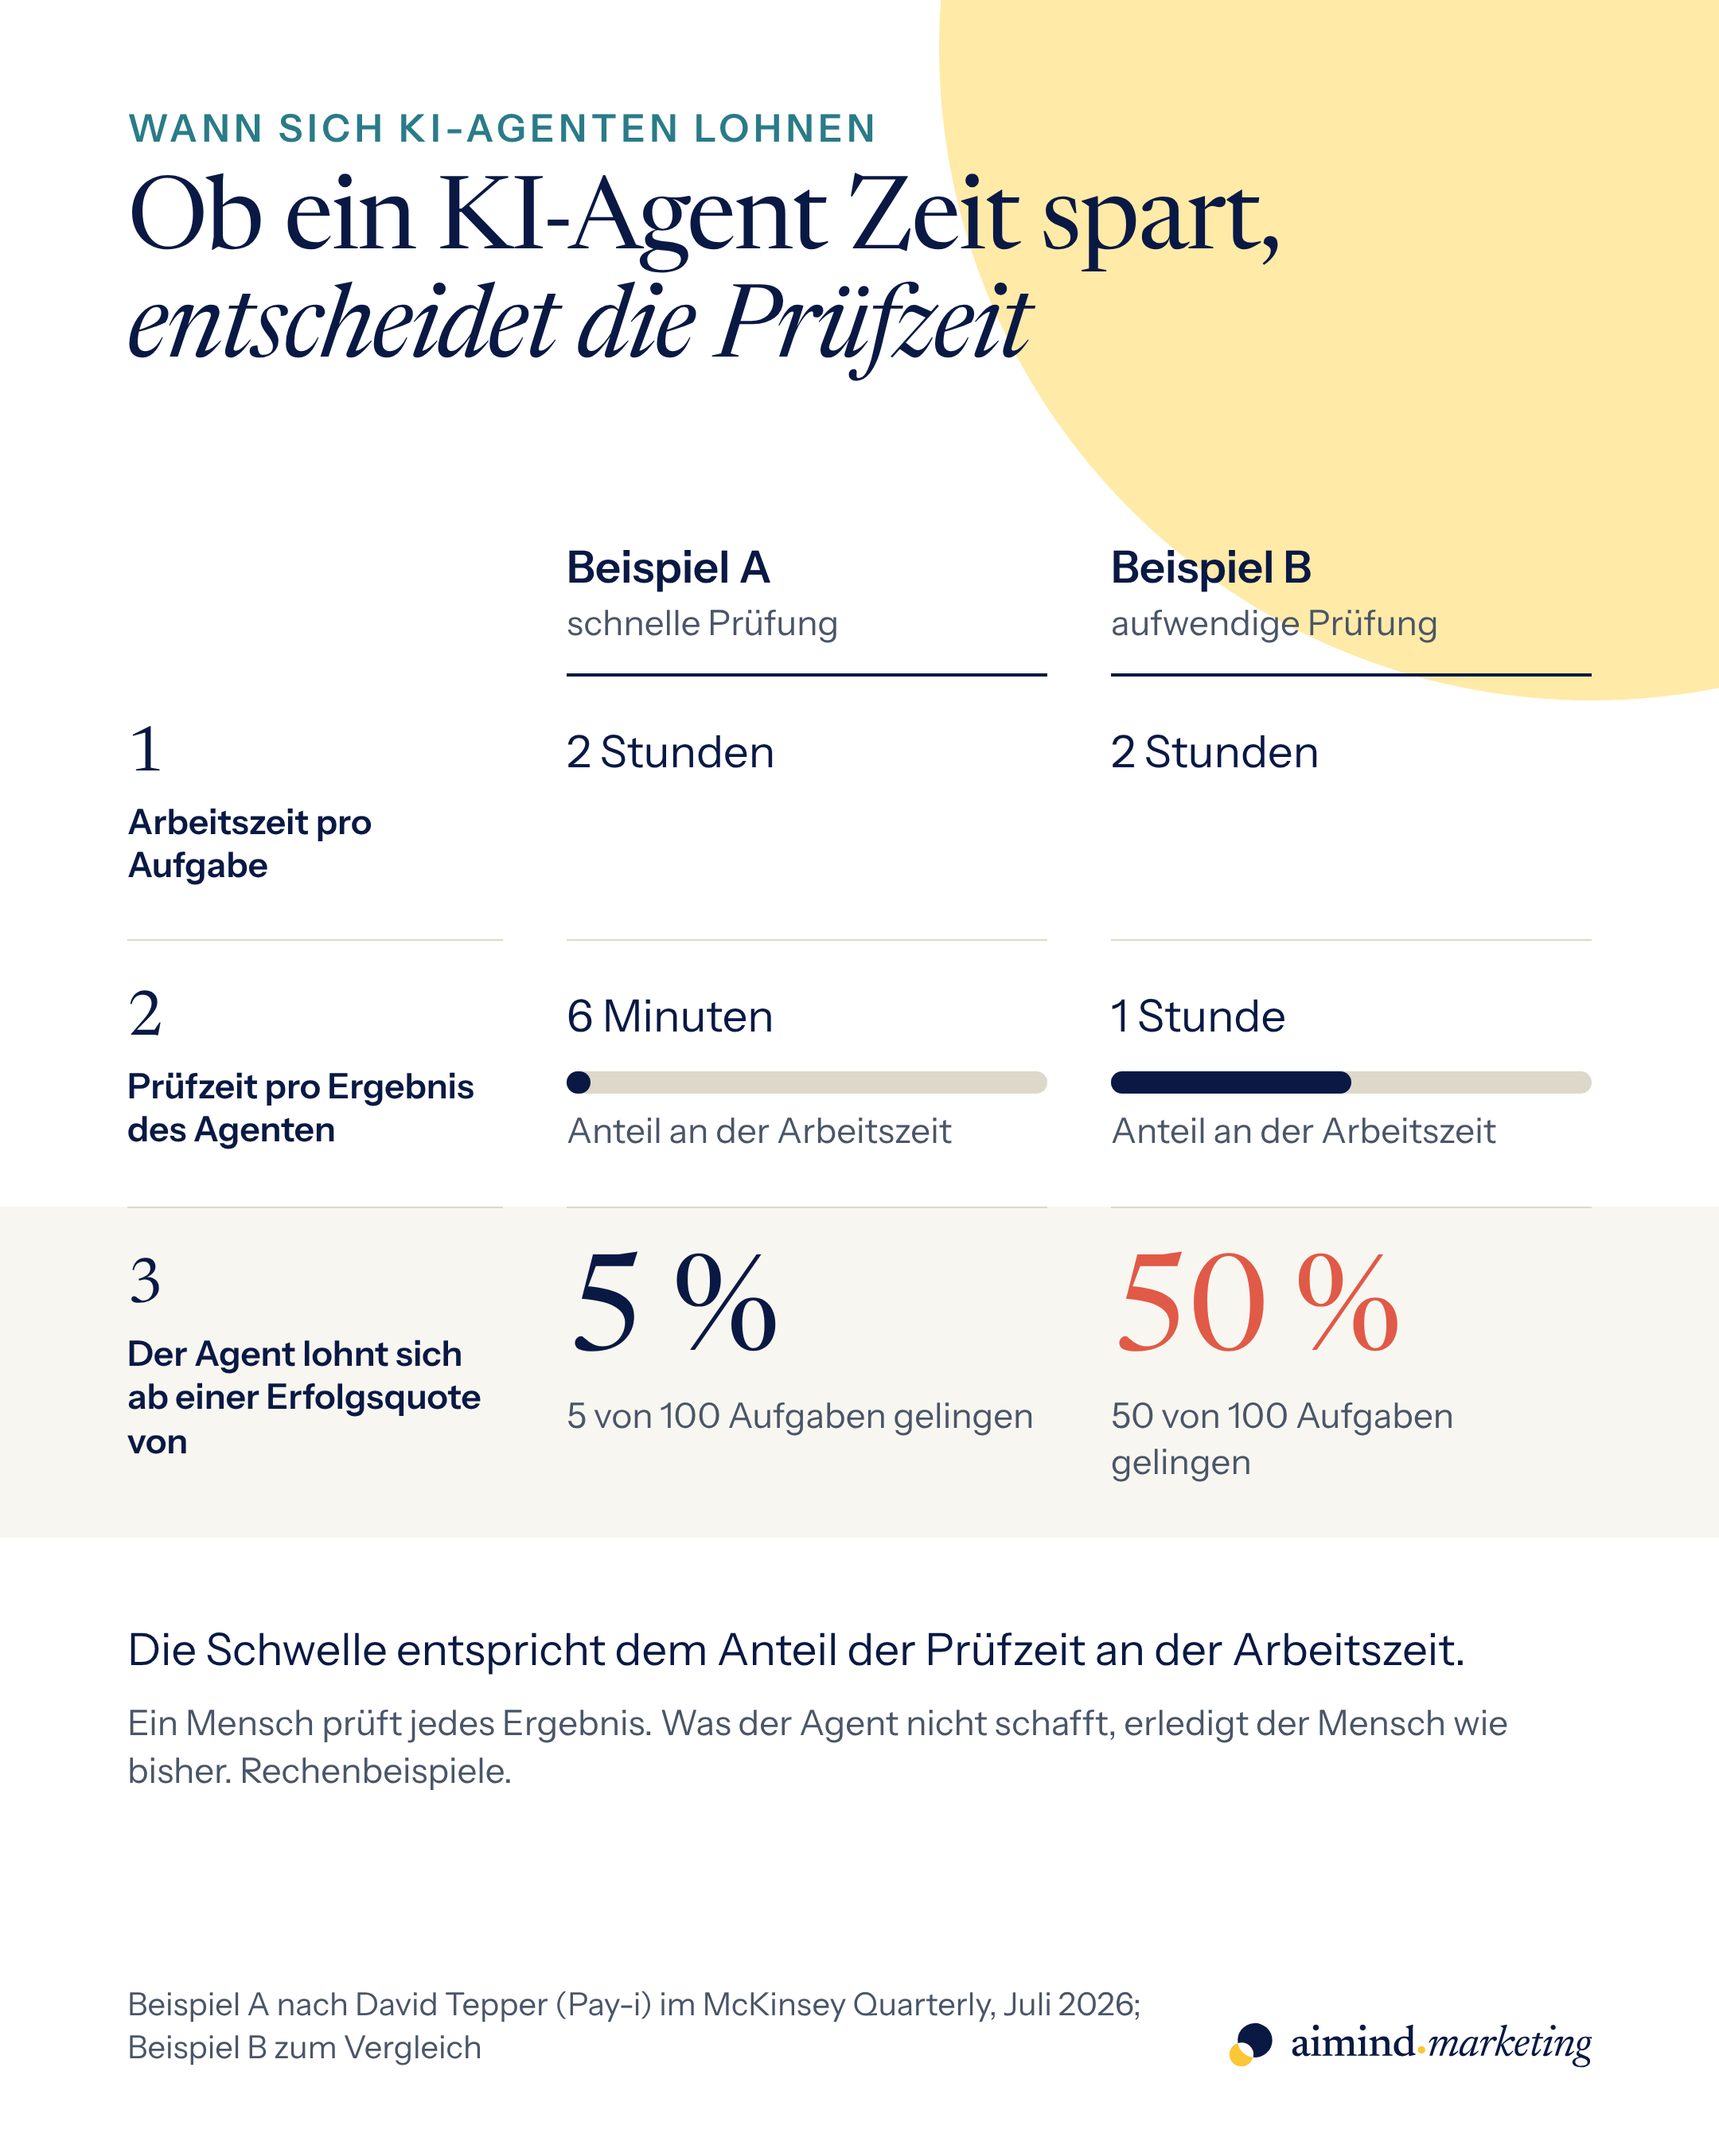
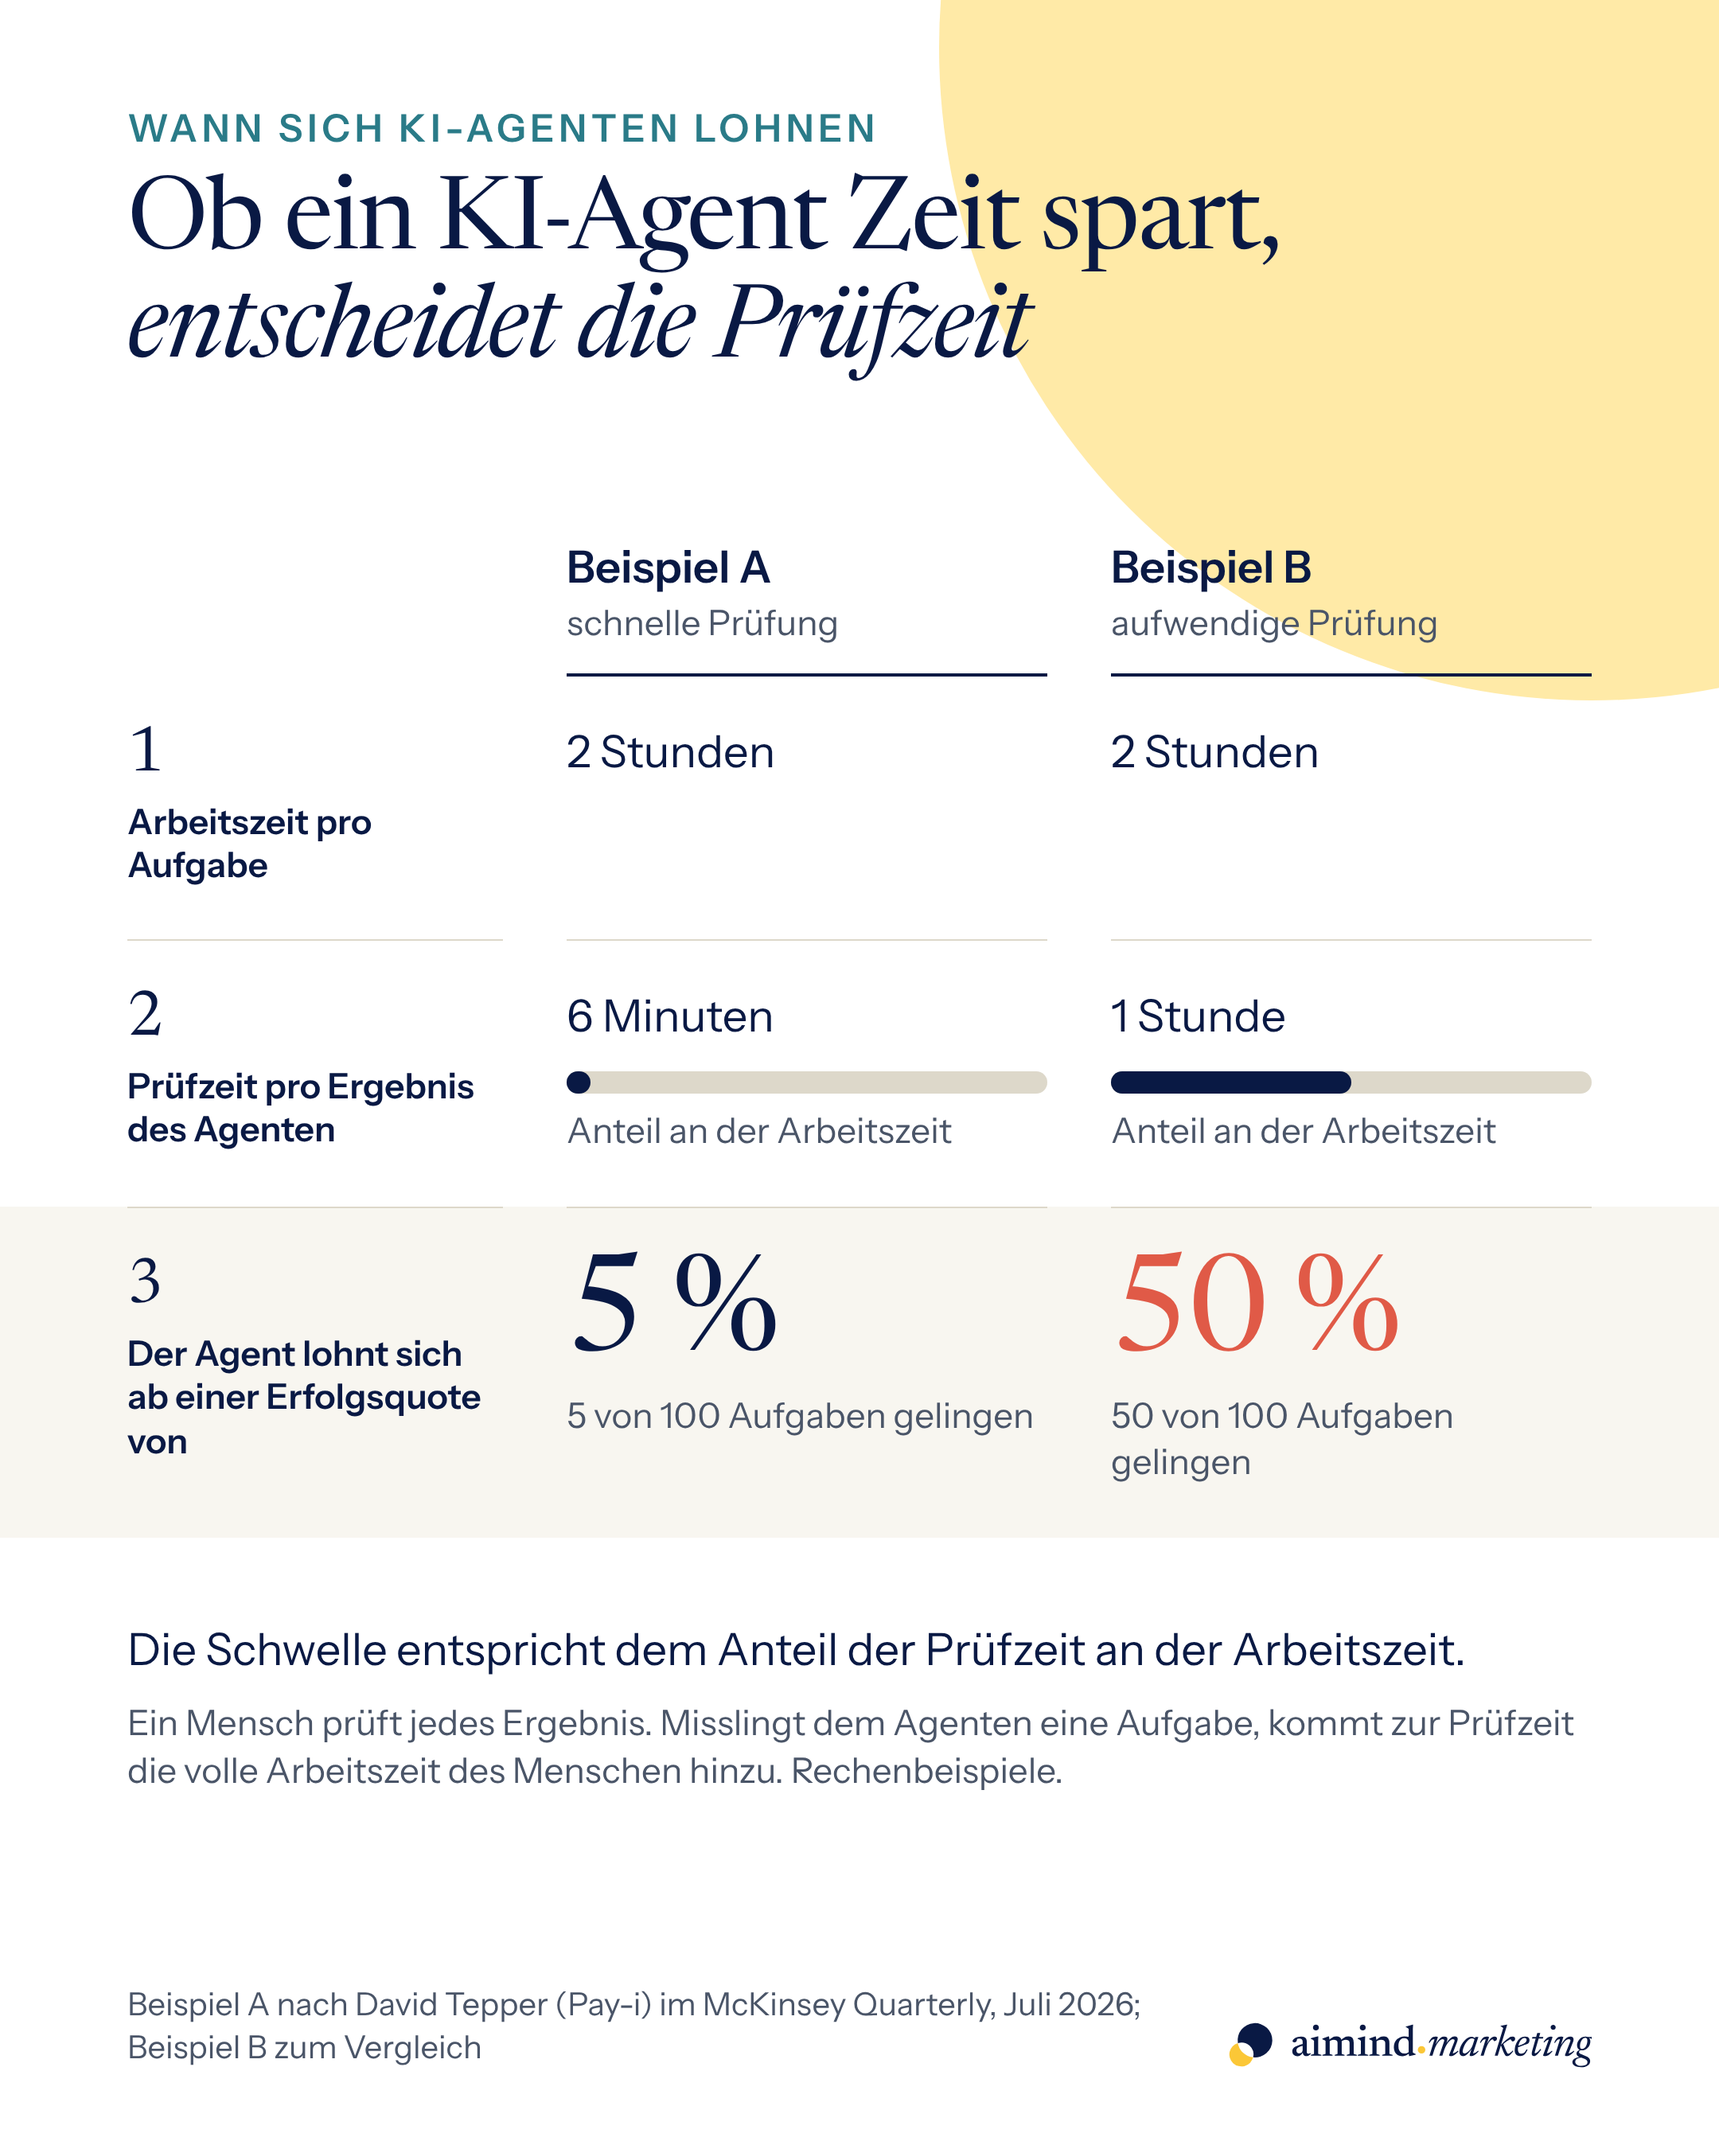
AI agent payoff: failed task means review time plus full working time (infographics and hub, DE/EN)
Claude-Session: https://claude.ai/code/session_01EoT7BpRMXSboJ4awkNYbjF

Changed region(s): [[0.3722, 0.7778, 0.8995, 0.84], [0.0931, 0.8089, 0.3722, 0.84]]

diff --git a/design/infographics/ai-agent-payoff-de.html b/design/infographics/ai-agent-payoff-de.html
@@ -63,7 +63,7 @@ h1 em{font-style:italic}
   </div>
 </div>
 
-<div class="note">Die Schwelle entspricht dem Anteil der Prüfzeit an der Arbeitszeit.<span class="s">Ein Mensch prüft jedes Ergebnis. Was der Agent nicht schafft, erledigt der Mensch wie bisher. Rechenbeispiele.</span></div>
+<div class="note">Die Schwelle entspricht dem Anteil der Prüfzeit an der Arbeitszeit.<span class="s">Ein Mensch prüft jedes Ergebnis. Misslingt dem Agenten eine Aufgabe, kommt zur Prüfzeit die volle Arbeitszeit des Menschen hinzu. Rechenbeispiele.</span></div>
 
 <div class="foot"><div class="src">Beispiel A nach David Tepper (Pay-i) im McKinsey Quarterly, Juli 2026;<br>Beispiel B zum Vergleich</div><img src="../logo/svg/aimind-logo.svg" alt="aimind.marketing"></div>
 <script>

diff --git a/design/infographics/ai-agent-payoff-en.html b/design/infographics/ai-agent-payoff-en.html
@@ -63,7 +63,7 @@ h1 em{font-style:italic}
   </div>
 </div>
 
-<div class="note">The threshold equals review time as a share of work time.<span class="s">A person reviews every output. Whatever the agent gets wrong, the person does as before. Illustrative calculations.</span></div>
+<div class="note">The threshold equals review time as a share of work time.<span class="s">A person reviews every output. When the agent fails a task, the person’s full working time comes on top of the review time. Illustrative calculations.</span></div>
 
 <div class="foot"><div class="src">Example A: David Tepper (Pay-i), McKinsey Quarterly, July 2026<br>Example B: for comparison</div><img src="../logo/svg/aimind-logo.svg" alt="aimind.marketing"></div>
 <script>

diff --git a/src/content/posts/de/ai-hub.md b/src/content/posts/de/ai-hub.md
@@ -202,7 +202,7 @@ Die Grundlage ist ein Vergleich mit dem Stand ohne KI. Das muss nicht aufwändig
 
 ### Wann sich ein KI-Agent lohnt
 
-Ob sich ein KI-Agent lohnt, hängt vom Verhältnis zwischen Arbeitszeit und Prüfzeit ab, wie David Tepper, CEO von Pay-i, in einem [Interview im McKinsey Quarterly](https://www.mckinsey.com/capabilities/quantumblack/our-insights/cost-versus-value-managing-agentic-ai-system-performance) vorrechnet. Sein Beispiel, übertragen auf 100 Aufgaben: Ein Mensch braucht für jede zwei Stunden, insgesamt 200 Stunden. Übernimmt ein Agent die Aufgaben, prüft ein Mensch jedes Ergebnis in sechs Minuten, insgesamt zehn Stunden. Was der Agent nicht brauchbar erledigt, macht der Mensch wie bisher selbst. Gelingen dem Agenten 5 % der Aufgaben, gleichen die eingesparten Stunden die Prüfzeit genau aus. Jeder weitere Prozentpunkt spart zwei Stunden. Bei 50 % sinkt der Aufwand von 200 auf 110 Stunden. Die Rechnung setzt allerdings voraus, dass sich ein schlechtes Ergebnis einfach verwerfen lässt, etwa ein misslungener Entwurf. Deshalb gehört vor jeden Schritt, der nach außen wirkt, eine Freigabe durch einen Menschen, wie im Beispiel der Fachmesse.
+Ob sich ein KI-Agent lohnt, hängt vom Verhältnis zwischen Arbeitszeit und Prüfzeit ab, wie David Tepper, CEO von Pay-i, in einem [Interview im McKinsey Quarterly](https://www.mckinsey.com/capabilities/quantumblack/our-insights/cost-versus-value-managing-agentic-ai-system-performance) vorrechnet. Sein Beispiel, übertragen auf 100 Aufgaben: Ein Mensch braucht für jede zwei Stunden, insgesamt 200 Stunden. Übernimmt ein Agent die Aufgaben, prüft ein Mensch jedes Ergebnis in sechs Minuten, insgesamt zehn Stunden. Misslingt dem Agenten eine Aufgabe, kommt zur Prüfzeit die volle Arbeitszeit des Menschen hinzu. Gelingen dem Agenten 5 % der Aufgaben, gleichen die eingesparten Stunden die Prüfzeit genau aus. Jeder weitere Prozentpunkt spart zwei Stunden. Bei 50 % sinkt der Aufwand von 200 auf 110 Stunden. Die Rechnung setzt allerdings voraus, dass sich ein schlechtes Ergebnis einfach verwerfen lässt, etwa ein misslungener Entwurf. Deshalb gehört vor jeden Schritt, der nach außen wirkt, eine Freigabe durch einen Menschen, wie im Beispiel der Fachmesse.
 
 Gewonnene Zeit und gesparte Kosten sind noch kein Umsatz. Sie schaffen aber Raum für die Arbeit, die zum Ergebnis beiträgt. Ob diese Arbeit am Ende wirkt, zeigen [die Kennzahlen, mit denen Marketing seinen Beitrag zum Geschäftsergebnis nachweist](/de/2025/10/13/b2b-marketing-roi-and-kpis/).
 

diff --git a/src/content/posts/en/ai-hub.md b/src/content/posts/en/ai-hub.md
@@ -202,7 +202,7 @@ The basis is a comparison with how things work without AI. This does not have to
 
 ### When an AI Agent Pays Off
 
-Whether an AI agent pays off depends on the ratio between work time and review time, as David Tepper, CEO of Pay-i, calculates in a [McKinsey Quarterly interview](https://www.mckinsey.com/capabilities/quantumblack/our-insights/cost-versus-value-managing-agentic-ai-system-performance) using a simple example. His example, applied to 100 tasks: a person needs two hours for each, 200 hours in total. If an agent takes over the tasks, a person reviews each result in six minutes, 10 hours in total. Whatever the agent fails to complete properly, the person does as before. If the agent succeeds at 5% of the tasks, the hours saved exactly offset the review time. Each additional percentage point saves two hours. At 50%, the effort drops from 200 to 110 hours. The calculation assumes, however, that a poor result can simply be discarded, such as a failed draft. That is why every step with external impact needs approval by a person, as in the trade show example.
+Whether an AI agent pays off depends on the ratio between work time and review time, as David Tepper, CEO of Pay-i, calculates in a [McKinsey Quarterly interview](https://www.mckinsey.com/capabilities/quantumblack/our-insights/cost-versus-value-managing-agentic-ai-system-performance) using a simple example. His example, applied to 100 tasks: a person needs two hours for each, 200 hours in total. If an agent takes over the tasks, a person reviews each result in six minutes, 10 hours in total. When the agent fails a task, the person’s full working time comes on top of the review time. If the agent succeeds at 5% of the tasks, the hours saved exactly offset the review time. Each additional percentage point saves two hours. At 50%, the effort drops from 200 to 110 hours. The calculation assumes, however, that a poor result can simply be discarded, such as a failed draft. That is why every step with external impact needs approval by a person, as in the trade show example.
 
 Time saved and costs cut are not yet revenue. They create room for the work that drives results. Whether that work ultimately pays off shows up in [the metrics marketing uses to prove its contribution to business results](/2025/10/13/b2b-marketing-roi-and-kpis/).
 
